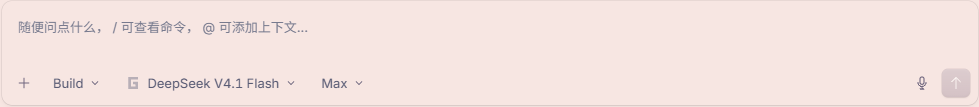
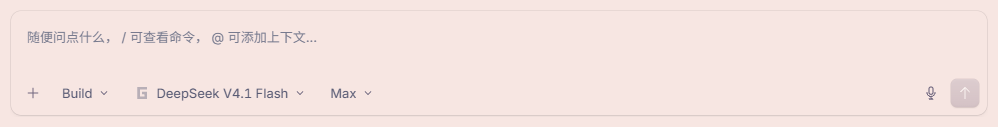
fix(ui): Enter stops recording and starts transcription (was silently swallowed); align README screenshots to identical canvas; prep v0.1.2

diff --git a/macos/oc-mic.js b/macos/oc-mic.js
@@ -1,4 +1,4 @@
-/* oc-mic-v0.1.1; oc-mic-v3 compatible patch entry */
+/* oc-mic-v0.1.2; oc-mic-v3 compatible patch entry */
 ;(function () {
   "use strict"
   if (window.__ocMicInstalled) return
@@ -69,7 +69,7 @@
     b.innerHTML = icon; return b
   }
   function makeUi() {
-    var root = document.createElement("div"); root.id = "oc-mic-controls"; root.setAttribute("data-oc-mic-version", "0.1.1")
+    var root = document.createElement("div"); root.id = "oc-mic-controls"; root.setAttribute("data-oc-mic-version", "0.1.2")
     var status = document.createElement("span"); status.className = "oc-mic-status"; status.setAttribute("aria-hidden", "true")
     var live = document.createElement("span"); live.className = "oc-mic-a11y"; live.setAttribute("role", "status"); live.setAttribute("aria-live", "polite")
     var cancel = actionButton("oc-mic-cancel", "取消录音", "×"); cancel.className = "oc-mic-cancel"
@@ -102,14 +102,14 @@
     ui.cancel.hidden = !(state === "recording" || state === "busy" || state === "requesting" || state === "result")
     var label = "语音输入", text = "", icon = MIC, cancelLabel = "取消录音"
     if (state === "requesting") { label = "正在请求麦克风权限"; text = "等待麦克风"; icon = SPIN }
-    if (state === "recording") { label = "停止并转写"; text = "00:00"; icon = STOP }
+    if (state === "recording") { label = "停止并转写（Enter）"; text = "00:00"; icon = STOP }
     if (state === "busy") { label = "正在转写"; text = "正在转写"; icon = SPIN; cancelLabel = "取消转写" }
     if (state === "error") { label = "重试语音输入：" + errorText; text = errorText }
     if (state === "result") { label = "复制转写结果"; text = errorText || "请复制转写结果"; cancelLabel = "丢弃转写结果" }
     ui.status.hidden = !text; ui.status.textContent = text; ui.status.title = text
     ui.btn.innerHTML = icon; ui.btn.title = label; ui.btn.setAttribute("aria-label", label)
     ui.cancel.title = cancelLabel; ui.cancel.setAttribute("aria-label", cancelLabel)
-    ui.live.textContent = state === "recording" ? "录音开始，按 Esc 取消" : label
+    ui.live.textContent = state === "recording" ? "录音开始：Enter 完成并转写，Esc 取消" : label
   }
   function mount() {
     injectStyle()
@@ -120,7 +120,7 @@
     var stale = document.getElementById("oc-mic-btn")
     if (stale && stale !== ui.btn) stale.remove()
     if (ui.root.parentElement !== found.toolbar || ui.root.nextElementSibling !== found.anchor) {
-      found.toolbar.insertBefore(ui.root, found.anchor); log("v0.1.1 mounted on prompt toolbar")
+      found.toolbar.insertBefore(ui.root, found.anchor); log("v0.1.2 mounted on prompt toolbar")
     }
     currentForm = found.form
     ui.root.classList.toggle("oc-mic-compact", found.form.clientWidth < 500)
@@ -325,7 +325,7 @@
   document.addEventListener("keydown", function (e) { if (e.key === "Escape" && ["requesting", "recording", "busy"].indexOf(state) !== -1) { e.preventDefault(); e.stopPropagation(); cancelRecording() } }, true)
   // Guard the native submit routes without overwriting framework-owned disabled state.
   document.addEventListener("click", function (e) { if (active() && currentForm && e.target.closest && e.target.closest('[data-action="prompt-submit"]') && currentForm.contains(e.target)) { e.preventDefault(); e.stopImmediatePropagation() } }, true)
-  document.addEventListener("keydown", function (e) { if (active() && currentForm && currentForm.contains(e.target) && e.key === "Enter" && !e.isComposing && !e.shiftKey) { e.preventDefault(); e.stopImmediatePropagation() } }, true)
+  document.addEventListener("keydown", function (e) { if (!active() || e.key !== "Enter" || e.isComposing || e.shiftKey) return; if (state === "recording") { e.preventDefault(); e.stopImmediatePropagation(); stopRecording(); return } if (currentForm && currentForm.contains(e.target)) { e.preventDefault(); e.stopImmediatePropagation() } }, true)
   document.addEventListener("submit", function (e) { if (active() && e.target === currentForm) { e.preventDefault(); e.stopImmediatePropagation() } }, true)
   document.addEventListener("compositionstart", function (e) { if (currentForm && currentForm.contains(e.target)) composing = true })
   document.addEventListener("compositionend", function () { composing = false })
@@ -334,5 +334,5 @@
   new MutationObserver(schedule).observe(document.documentElement, { childList: true, subtree: true })
   setInterval(function () { schedule() }, 2500)
   if (document.readyState === "loading") document.addEventListener("DOMContentLoaded", function () { schedule() }); else schedule()
-  log("v0.1.1 script ready")
+  log("v0.1.2 script ready")
 })()

diff --git a/windows/oc-mic.js b/windows/oc-mic.js
@@ -1,4 +1,4 @@
-/* oc-mic-v0.1.1; oc-mic-v3 compatible patch entry */
+/* oc-mic-v0.1.2; oc-mic-v3 compatible patch entry */
 ;(function () {
   "use strict"
   if (window.__ocMicInstalled) return
@@ -69,7 +69,7 @@
     b.innerHTML = icon; return b
   }
   function makeUi() {
-    var root = document.createElement("div"); root.id = "oc-mic-controls"; root.setAttribute("data-oc-mic-version", "0.1.1")
+    var root = document.createElement("div"); root.id = "oc-mic-controls"; root.setAttribute("data-oc-mic-version", "0.1.2")
     var status = document.createElement("span"); status.className = "oc-mic-status"; status.setAttribute("aria-hidden", "true")
     var live = document.createElement("span"); live.className = "oc-mic-a11y"; live.setAttribute("role", "status"); live.setAttribute("aria-live", "polite")
     var cancel = actionButton("oc-mic-cancel", "取消录音", "×"); cancel.className = "oc-mic-cancel"
@@ -102,14 +102,14 @@
     ui.cancel.hidden = !(state === "recording" || state === "busy" || state === "requesting" || state === "result")
     var label = "语音输入", text = "", icon = MIC, cancelLabel = "取消录音"
     if (state === "requesting") { label = "正在请求麦克风权限"; text = "等待麦克风"; icon = SPIN }
-    if (state === "recording") { label = "停止并转写"; text = "00:00"; icon = STOP }
+    if (state === "recording") { label = "停止并转写（Enter）"; text = "00:00"; icon = STOP }
     if (state === "busy") { label = "正在转写"; text = "正在转写"; icon = SPIN; cancelLabel = "取消转写" }
     if (state === "error") { label = "重试语音输入：" + errorText; text = errorText }
     if (state === "result") { label = "复制转写结果"; text = errorText || "请复制转写结果"; cancelLabel = "丢弃转写结果" }
     ui.status.hidden = !text; ui.status.textContent = text; ui.status.title = text
     ui.btn.innerHTML = icon; ui.btn.title = label; ui.btn.setAttribute("aria-label", label)
     ui.cancel.title = cancelLabel; ui.cancel.setAttribute("aria-label", cancelLabel)
-    ui.live.textContent = state === "recording" ? "录音开始，按 Esc 取消" : label
+    ui.live.textContent = state === "recording" ? "录音开始：Enter 完成并转写，Esc 取消" : label
   }
   function mount() {
     injectStyle()
@@ -120,7 +120,7 @@
     var stale = document.getElementById("oc-mic-btn")
     if (stale && stale !== ui.btn) stale.remove()
     if (ui.root.parentElement !== found.toolbar || ui.root.nextElementSibling !== found.anchor) {
-      found.toolbar.insertBefore(ui.root, found.anchor); log("v0.1.1 mounted on prompt toolbar")
+      found.toolbar.insertBefore(ui.root, found.anchor); log("v0.1.2 mounted on prompt toolbar")
     }
     currentForm = found.form
     ui.root.classList.toggle("oc-mic-compact", found.form.clientWidth < 500)
@@ -325,7 +325,7 @@
   document.addEventListener("keydown", function (e) { if (e.key === "Escape" && ["requesting", "recording", "busy"].indexOf(state) !== -1) { e.preventDefault(); e.stopPropagation(); cancelRecording() } }, true)
   // Guard the native submit routes without overwriting framework-owned disabled state.
   document.addEventListener("click", function (e) { if (active() && currentForm && e.target.closest && e.target.closest('[data-action="prompt-submit"]') && currentForm.contains(e.target)) { e.preventDefault(); e.stopImmediatePropagation() } }, true)
-  document.addEventListener("keydown", function (e) { if (active() && currentForm && currentForm.contains(e.target) && e.key === "Enter" && !e.isComposing && !e.shiftKey) { e.preventDefault(); e.stopImmediatePropagation() } }, true)
+  document.addEventListener("keydown", function (e) { if (!active() || e.key !== "Enter" || e.isComposing || e.shiftKey) return; if (state === "recording") { e.preventDefault(); e.stopImmediatePropagation(); stopRecording(); return } if (currentForm && currentForm.contains(e.target)) { e.preventDefault(); e.stopImmediatePropagation() } }, true)
   document.addEventListener("submit", function (e) { if (active() && e.target === currentForm) { e.preventDefault(); e.stopImmediatePropagation() } }, true)
   document.addEventListener("compositionstart", function (e) { if (currentForm && currentForm.contains(e.target)) composing = true })
   document.addEventListener("compositionend", function () { composing = false })
@@ -334,5 +334,5 @@
   new MutationObserver(schedule).observe(document.documentElement, { childList: true, subtree: true })
   setInterval(function () { schedule() }, 2500)
   if (document.readyState === "loading") document.addEventListener("DOMContentLoaded", function () { schedule() }); else schedule()
-  log("v0.1.1 script ready")
+  log("v0.1.2 script ready")
 })()

diff --git a/README.md b/README.md
@@ -11,7 +11,7 @@
 <p align="center">
   <a href="LICENSE"><img src="https://img.shields.io/badge/License-MIT-blue.svg?style=for-the-badge" alt="MIT License"></a>
   <a href="#快速开始"><img src="https://img.shields.io/badge/Platform-Windows%20%7C%20macOS-0078D6.svg?style=for-the-badge" alt="Platform"></a>
-  <a href="VERSION"><img src="https://img.shields.io/badge/Version-v0.1.1-orange.svg?style=for-the-badge" alt="Version"></a>
+  <a href="VERSION"><img src="https://img.shields.io/badge/Version-v0.1.2-orange.svg?style=for-the-badge" alt="Version"></a>
 </p>
 
 <p align="center">
@@ -63,9 +63,9 @@
 
 > 实录截图（浅色主题）：上 —— 空闲状态，麦克风按钮就在发送键左边；下 —— 点击后进入录音状态（波形 + 计时 + 停止）
 
-- 点 🎤 开始录音：图标变红、呼吸闪烁
-- 说完再点一下（或满 60 秒自动结束）
-- 识别中图标转圈，1 秒左右后**文字直接出现在输入框**，改完按回车即发
+- 点 🎤 开始录音：工具栏变成录音条（波形 + 计时）
+- 说完按 **Enter**（或点停止、或满 60 秒自动结束）立即转写；按 **Esc** 取消
+- 识别中图标转圈，1 秒左右后**文字直接出现在输入框**，检查后按回车发送
 - 自动识别中 / 英 / 混说，不需要切换
 
 ---

diff --git a/CHANGELOG.md b/CHANGELOG.md
@@ -2,6 +2,12 @@
 
 本项目遵循 [语义化版本](https://semver.org/lang/zh-CN/)。
 
+## [0.1.2] - 2026-10-06
+
+### 修复 / 交互
+
+- ⌨ 录音中按 **Enter** 直接结束录音并开始转写（修复此前 Enter 被拦截且无响应的问题）；**Esc** 取消录音（不变）
+
 ## [0.1.1] - 2026-10-06
 
 ### 修复
